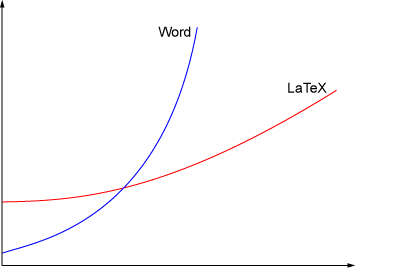
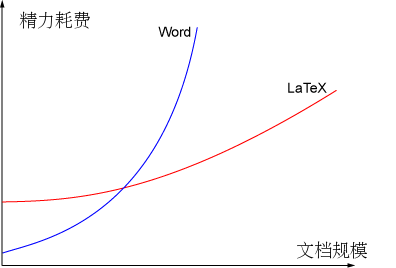
chap 1 section 1 subsection 1 complete

Changed region(s): [[0.0303, 0.0299, 0.2424, 0.1194], [0.7576, 0.8955, 0.9394, 0.9851]]

diff --git a/data/chap02.tex b/data/chap02.tex
@@ -64,8 +64,57 @@ Word 从问世到现在不断地更新版本，并经常要求下载补丁程序
   \label{fig:xfig6}
 \end{figure}
 
+\subsection{\smarkdown}
+\label{sec:smarkdown}
 
+\smarkdown是什么，其实它是本文作者自己起的名字，可以理解成science Markdown 或者 scholar Markdown的缩写。其实就是一个扩展版本的Markdown标记语言。首先还是简单介绍一下Markdown标记语言：
 
+简单来说，Markdown 其实是一种轻量级的标记语言。或者说，它规定了一些文本的书写格式。
+
+它实际上是个非常简单、非常容易学习的语法。这个语法简单到每个人都可以在5分钟以内学会。更重要的是，Markdown语法所有要素，是与写作的习惯一脉相承的，套用句俗语“仅为写作而生”。
+
+Markdown诞生于互联网时代，更是由深谙互联网文本之道的John Gruber等人设计。因为Ruby与github\footnote{是一个用于使用Git版本控制系统项目的共享虚拟主机服务。它由GitHub公司（曾称Logical Awesome）的开发者Chris Wanstrath、PJ Hyett和Tom Preston-Werner使用Ruby on Rails编写而成}圈的极客们的热捧，以及来自github、Stackoverflow等的大力支持。从一开始，就建立一个完整的生态链。可以这么说，Markdown之所以在近些年如此流行是和互联网以及web 2.0的普及分不开的。因为人们习惯于在网络上写博客，写微博，写云端笔记，才有了对于更好更便捷的表达自己想法的工具的诉求。也就是要求既可以方便的显示文本的内容也可以很容易的控制文本的样式。下面简单演示一下Markdown的效果：
+
+\begin{bframe}
+  \noindent 
+  标题\\
+  ==============\\
+  附标题\\
+  -----------\\
+  开始书写正文吧\\
+  当然也可以用 *列表* 的形式：\\
+  1.   列表项目\\
+  2.   还是列表项目\\
+\end{bframe}
+{\noindent 查看时的效果:}
+\begin{bframe}
+  \noindent
+  {\erhao 标题}\\
+  {\sanhao 附标题}\\
+  开始书写正文吧\\
+  当然也可以用 {\bfseries 列表} 的形式：
+  \begin{enumerate}
+  \item 列表项目
+  \item 还是列表项目
+  \end{enumerate}
+\end{bframe}
+很显然，Markdown用很简单好记的标记就能实现一般情况下的文本格式排版，一切就这么简单。Markdown之所以在被鼓吹之后，越来越流行，不是因为它复杂，而是因为它足够简单。
+
+Markdown虽然使用简单，但是其语法中只定义了日常排版最常用的一些情况，比如标题、段落、列表、强调、贴图等。缺乏一些我们科技排版中必要的元素，比如：表格、参考文献、脚注等。这也正是本文作者要对其进行扩展的原因所在。扩展后的Markdown语法，更加适合科技文献的编写。而且也保留了Markdown语法的简洁性，可以很快掌握。关于具体的Markdown语法和扩展后的\smarkdown语法，本文将在下面系统实现的章节详细介绍。
+
+\subsection{Smarkdown+LaTeX}
+\label{sec:sandl}
+
+\smarkdown就像流行音乐，简单易学，通俗易懂，可以被大多数人所接受。\LaTeX就像古典音乐，优雅灵活，高深强大，但是不是很容易被大多数人所接受。没有任何编程基础的人要想上手使用\LaTeX，并不是一件很容易的事情，起码需要一个多星期的系统学习\footnote{这个时间没有做广泛调研，可能因人而异}，即使这样也不能完全掌握要领。但是学习使用\smarkdown却只需短短几分钟，就可以掌握它的所有的语法，并开始编辑工作，而且编辑过程中可以一直专注与文章的内容。图~\ref{fig:xfig7}描述了不同文档规模下\LaTeX、\smarkdown、Word编辑文档时，耗费在排版格式上的精力的比较。可以看出\smarkdown不仅对于小规模的文档简单易学，而且随着文档规模的增大，用户用于排版的精力并没有太大的增加。
+\begin{figure}[H]
+  \centering
+  \includegraphics{latexmarkdownword}
+  \caption{LaTeX,Smarkdown,Word精力耗费比较}
+  \label{fig:xfig7}
+\end{figure}
+那么，如果把这两个工具结合起来，使用\smarkdown作为给一般用户前端编辑工具，使用\LaTeX作为编辑后生成最终PDF文档的工具。那么就等于把一个复杂而又强大的东西简单化了。相当于在普通用户与\LaTeX专业排版直接架构了一座沟通的“金桥”。用户可以在系统提供的编辑页面编写\smarkdown格式的文章，当然由于\smarkdown可以及时的翻译成html格式，所以用户可以在第一时间看到自己的文档的最终样式\footnote{由于系统允许插入LATEX语法片段，所以这里的预览并不完全是最终格式}。然后系统提供各种\LaTeX的模板供用户使用，其中有个大学的学位论文模板，个出版社的期刊论文模板，通过这些模板，用户可以把自己的文章导出为套用任意模板的最终格式的PDF文件。当然高级用户亦可下载系统转换好的\LaTeX格式的文件，在用自己的模板生成最终文件。而且编辑页面中可以插入\LaTeX语法片段，这些特性可以给那些熟悉\LaTeX的高级用户使用，以生成高质量的数学公式，化学式等。
+
+以上所描述的就是本系统应对高校用户在文档编辑中遇到问题的解决方案：\fbox{ \smarkdown的前端编辑和\LaTeX的后台处理}。当然，要实现这些需要做很多工作，比如首先要实现一个可以把\smarkdown翻译成\LaTeX的编译器，我们将在下面系统实现的章节对这些做详细的描述。
 
 
 \section{文档存储解决方案}

diff --git a/main.tex b/main.tex
@@ -7,7 +7,7 @@
 %   arialtoc,arialtitle]{thuthesis}
 % 所有其它可能用到的包都统一放到这里了，可以根据自己的实际添加或者删除。
 \usepackage{thutils}
-\newcommand{\smarkdown}{Smarkdown}
+
 \begin{document}
 % 定义所有的eps文件在 figures 子目录下
 \graphicspath{{figures/}}
